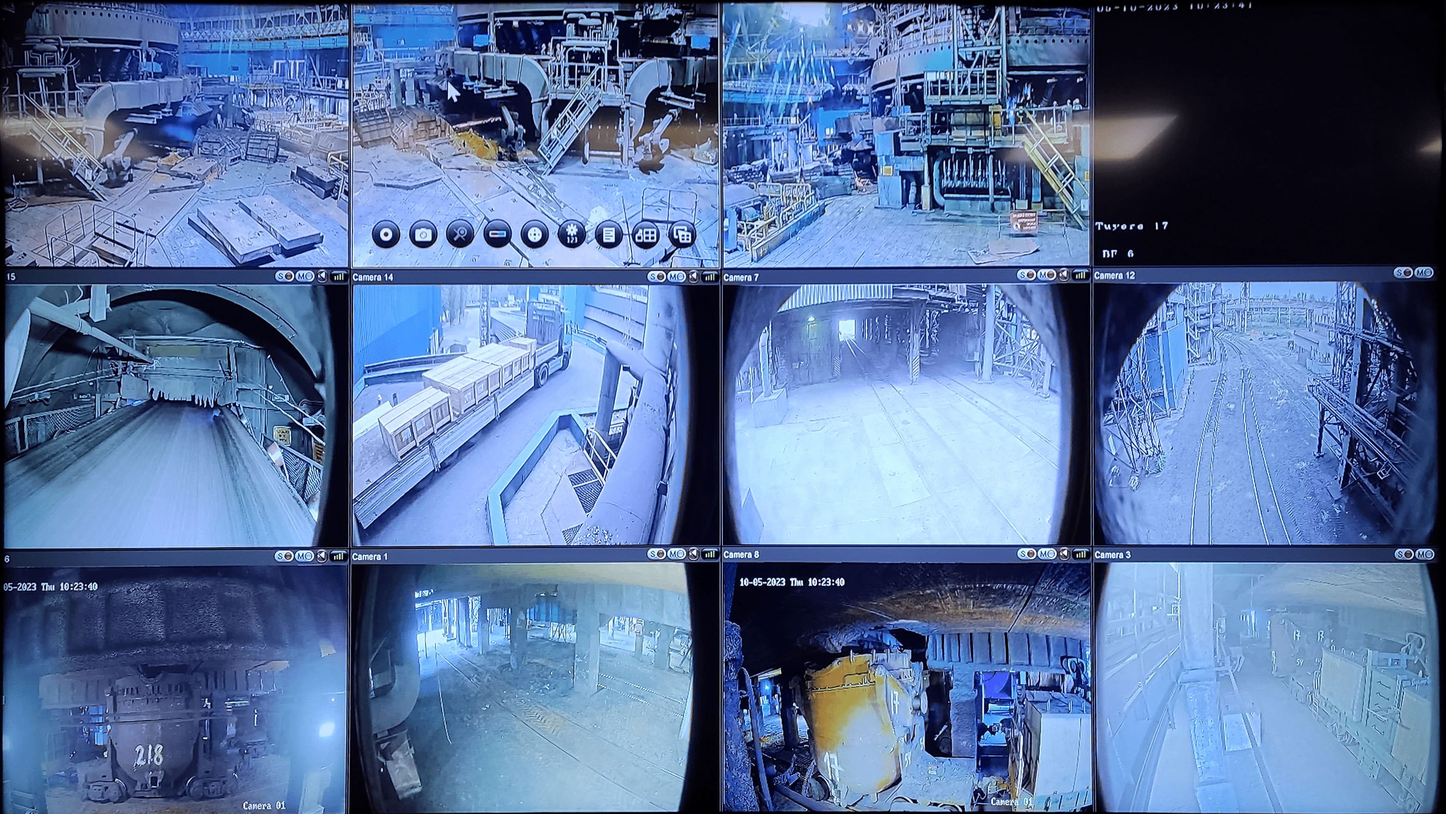
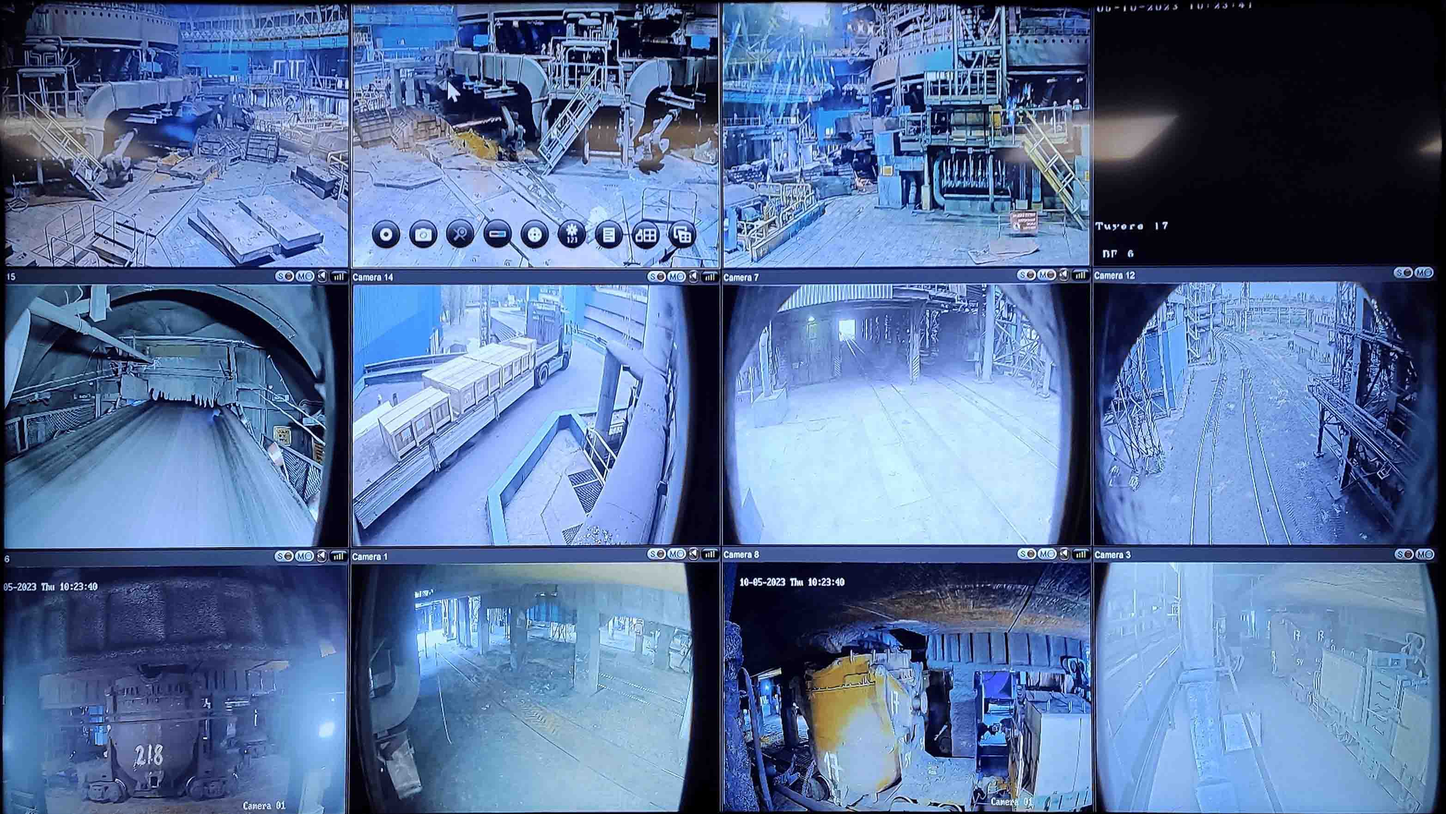
Версия для показа на сайте

diff --git a/NLMK_DP6_tren/js/module3d.js b/NLMK_DP6_tren/js/module3d.js
@@ -290,10 +290,10 @@ document.addEventListener("DOMContentLoaded", () => {
             setImageOnMonitor("media/images/monitors/Skhema_PUT.jpg", Scene, Mesh);
           }
           else if (Mesh.name && Mesh.name === 'Display_flat006') {  // 16
-            setImageOnMonitor("media/images/monitors/Kamera-nablyudeniya.jpg", Scene, Mesh);
+            setImageOnMonitor("media/images/monitors/Kamera-nablyudeniya_3.jpg", Scene, Mesh);
           }
           else if (Mesh.name && Mesh.name === 'Display_TV002') {  // TV 1
-            setImageOnMonitor("media/images/monitors/Kamera-nablyudeniya.jpg", Scene, Mesh);
+            setImageOnMonitor("media/images/monitors/Kamera-nablyudeniya_3.jpg", Scene, Mesh);
           }
           else if (Mesh.name && Mesh.name === 'Display_TV') {  // TV 2  // белый экран на дубликатах
             makeUnicMat(Mesh);

diff --git a/NLMK_DP6_tren/js/trenActions.js b/NLMK_DP6_tren/js/trenActions.js
@@ -65,7 +65,7 @@ const devHelper = {
   },
   //---------------------------
   dev: {
-    enable: true,
+    enable: false,
     perfomance: undefined,
   },
 };
